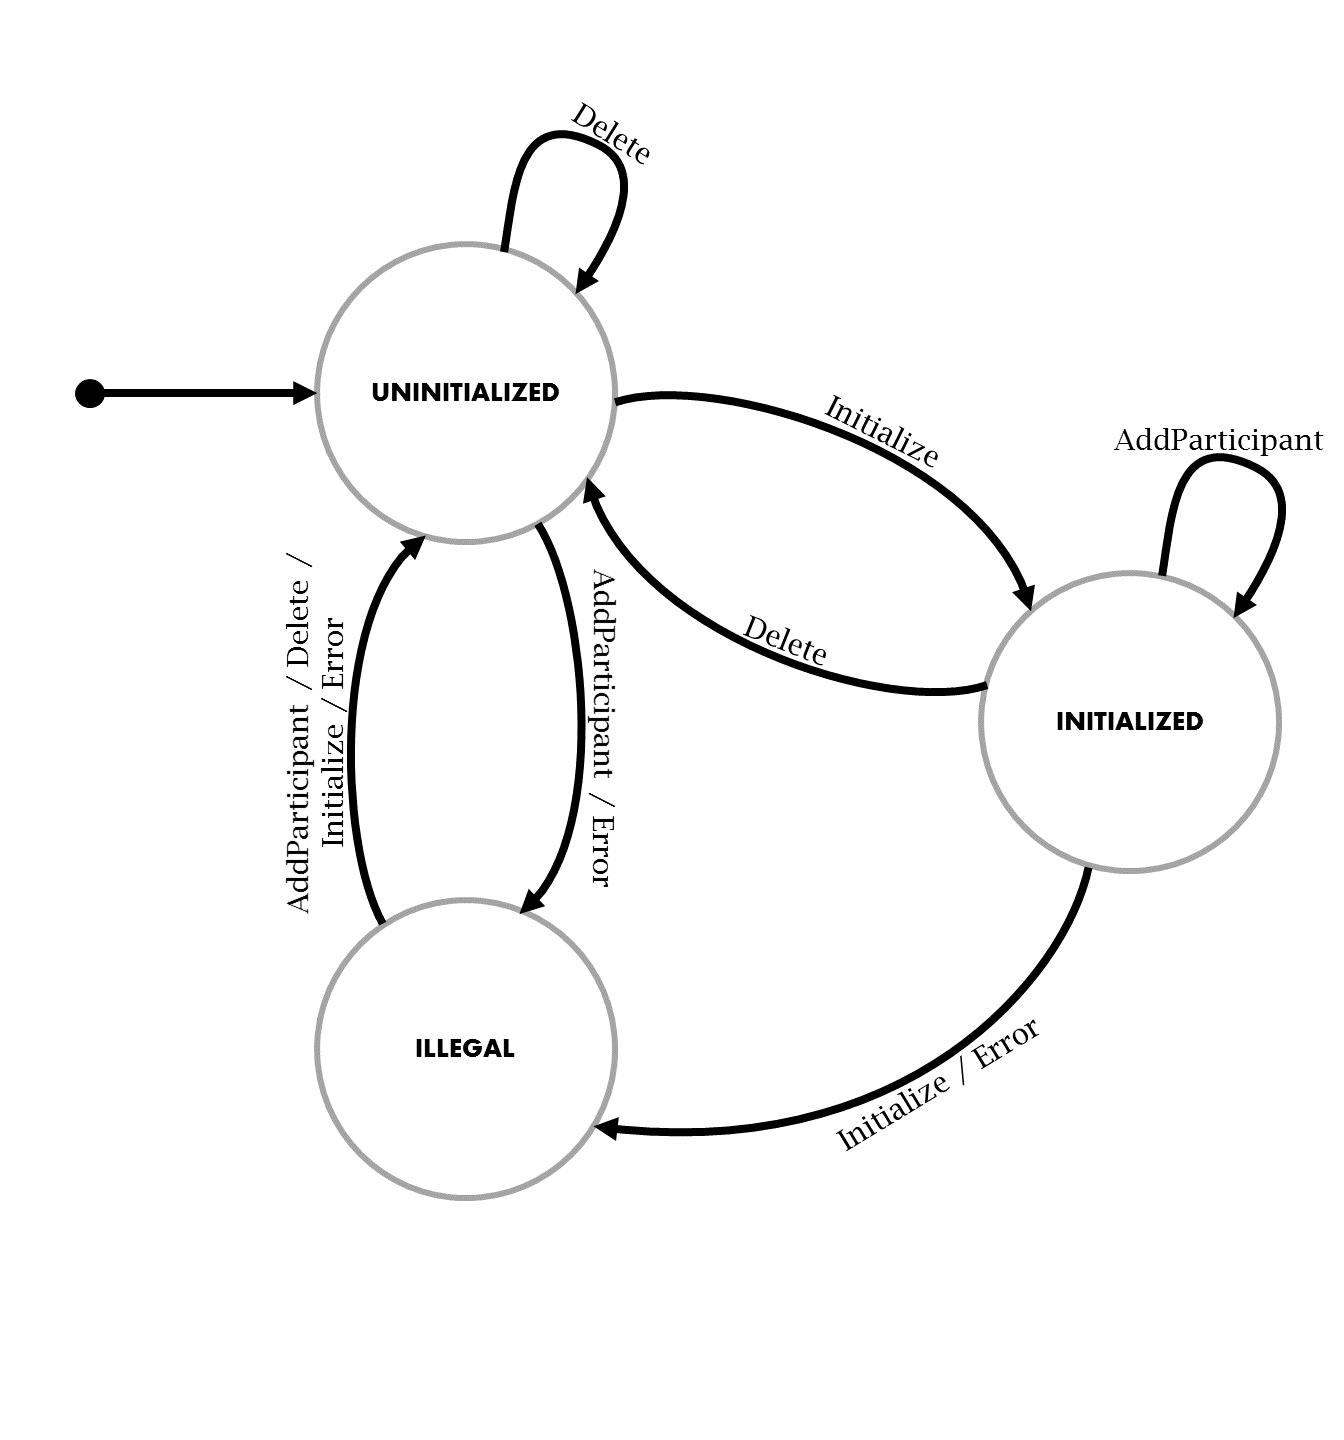
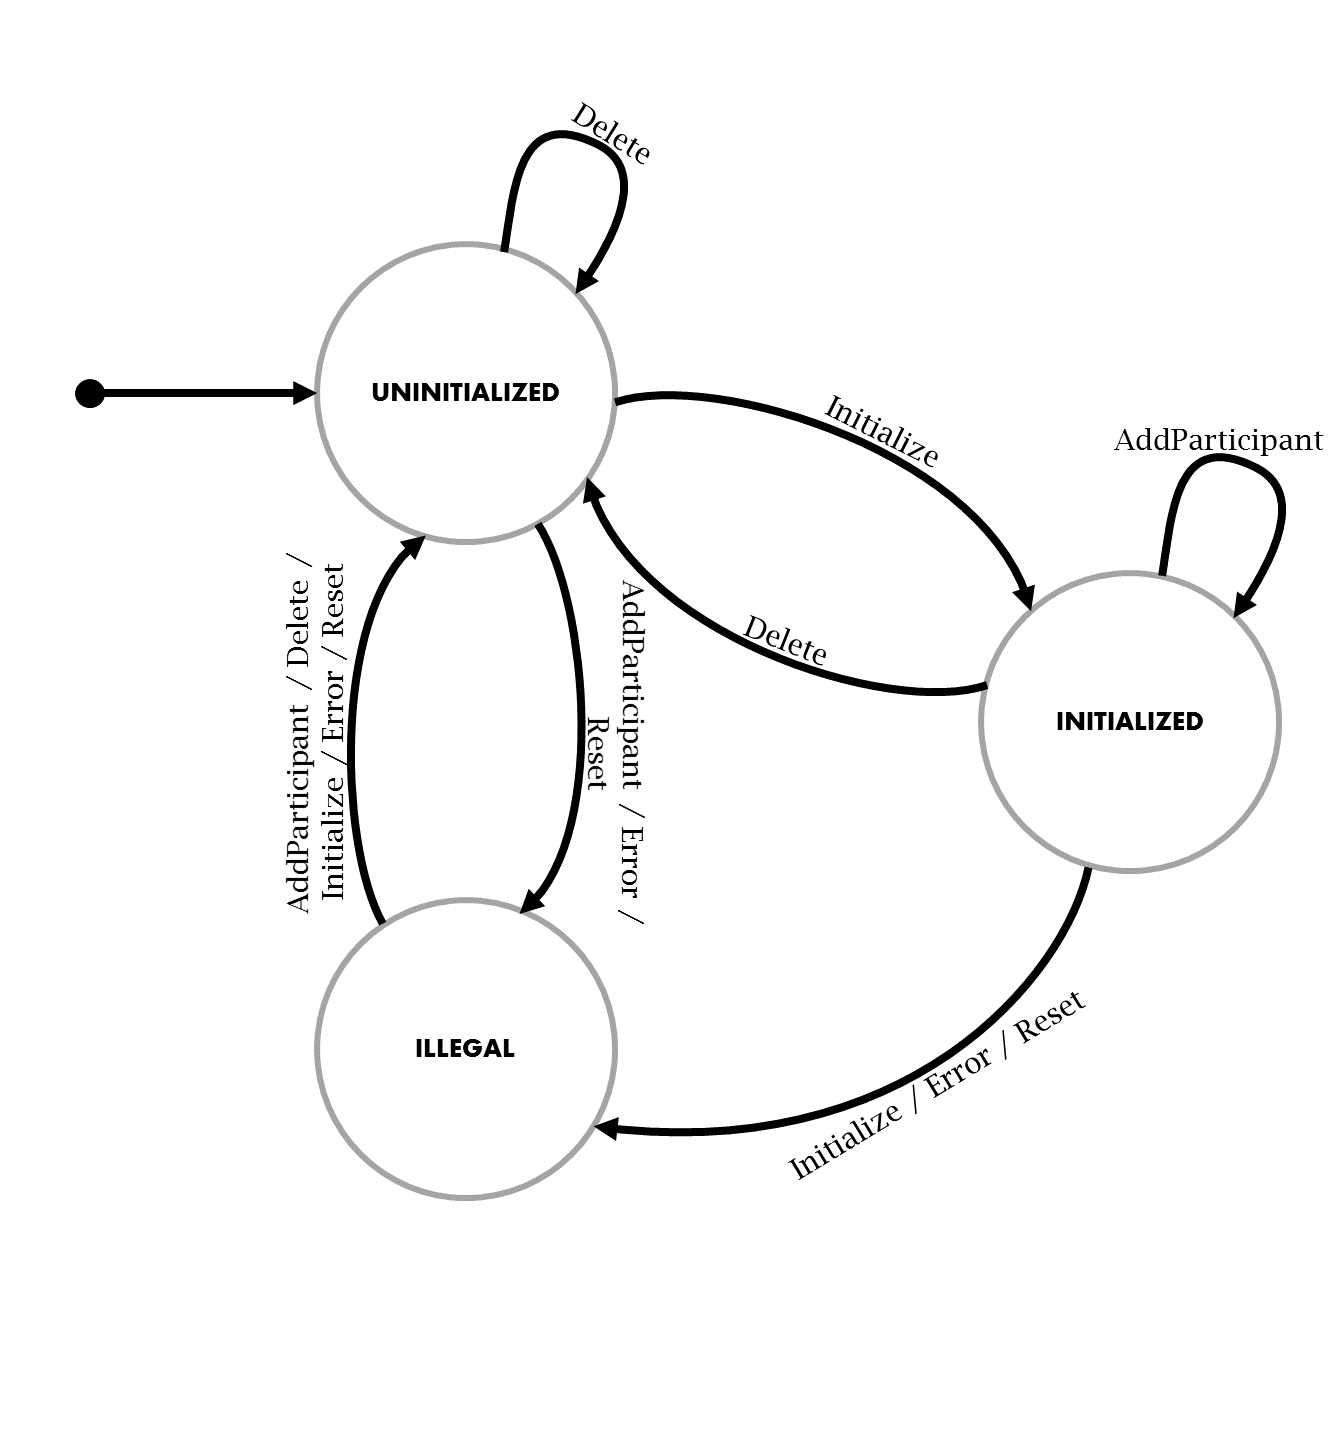
Small fixes. Made some corrections to the existing documentation.

diff --git a/Common/StatechartActor.md b/Common/StatechartActor.md
@@ -1,7 +1,7 @@
 The *Statechart Actor* is a library that define classes that can be used to add statechart capabilities to a actors. It allows any actor that implements it to specify a statechart structure by defining states and transitions. With those in place it can then dispatch events to execute actions and change states.
 
 ### StatechartActor Class
-In order for an actor type to have statechart capabilities it needs to derive from the `StatechartActor` abstract class instead of the typical `Actor` class. Then by defining nested classes it can describe the structure of the statechart. These classes will derive from the `StatechartClass` abstract class and will use the `InitialStateAttribute`, `StateAttribute` and `TransitionAttribute` attributes extensively. During the creation of an actor type object said attributes might be read in order to construct the whole structure, which in turn might be used by multiple actor instances. Therefore, when defining the structure we assume that it's not tied to a specific instance. Instead, a reference to an instance will be passed to the appropriate state or transition when necessary.
+In order for an actor type to have statechart capabilities it needs to derive from the `StatechartActor` abstract class instead of the typical `Actor` class. Then by defining nested classes it can describe the structure of the statechart. These classes will derive from the `StatechartClass` abstract class and will use the `InitialStateAttribute`, `StateAttribute`, `FinalStateAttribute` and `TransitionAttribute` attributes extensively. During the creation of an actor type object said attributes might be read in order to construct the whole structure, which in turn might be used by multiple actor instances. Therefore, when defining the structure we assume that it's not tied to a specific instance. Instead, a reference to an instance will be passed to the appropriate state or transition when necessary.
 
 > *Note*: The statechart structure defined by the actor type will be constructed only once for all the actor instances running on the same application domain.
 
@@ -35,14 +35,17 @@ internal class VendingMachineActor: StatechartActor, IVendingMachineActor {
 > *Note*: If you want to override the `OnActivateAsync` method, then make sure that you call the base implementation as well. Also, any `DispatchEventAsync` calls inside of here need to happen after that call. Otherwise, the statechart will not function correctly.
 
 ### StatechartState Class
-The `StatechartState` abstract class is used to define the states that form part of a statechart structure. The class that derives from this one need to be nested inside the class that derives from the `StatechartActor`, and either the `InitialStateAttribute` or `StateAttribute` attributes need to be used on the class itself. An enum or string identifier must be passed to the attribute; the identifier is used to name the state with an unique name. The class also needs to follow the singleton pattern and create an `Instance` public static property that holds a reference to an instance object of this class.
+The `StatechartState` abstract class is used to define the states that form part of a statechart structure. The class that derives from this one need to be nested inside the class that derives from the `StatechartActor`, and the `InitialStateAttribute`, `StateAttribute` or `FinalStateAttribute` attribute need to be used on the class itself. An enum or string identifier must be passed to the attribute; the identifier is used to name the state with an unique name. The class also needs to follow the singleton pattern and create an `Instance` public static property that holds a reference to an instance object of this class.
 
-> *Note*: The `InitialStateAttribute` attribute must be used only on one of the state classes nested inside the parent statechart class. The rest should use the `StateAttribute`.
+> *Note*: The `InitialStateAttribute` attribute must be used only on one of the state classes nested inside the parent statechart class. The rest should use the `StateAttribute` or `FinalStateAttribute` attributes.
+
+<!-- -->
+> *Note*: After a running statechart reaches a state marked by the `FinalStateAttribute` attribute it no longer consumes events.
 
 <!-- -->
 > *Note*: When implementing the singleton pattern make sure that you call the base constructor as part of your private constructor. Otherwise, the statechart will not function correctly.
 
-The `StatechartState` class implements the `IState` interface which exposes the `Type` property. This property returns the identifier used for the class. The class also exposes the `EntryActionAsync` and `ExitActionAsync` methods which can be overridden. These methods are executed whenever a running statechart enters or exits (respectively) this state after following a transition originating from *another* state or targeting *another* state. The final exposed method is `GetActivatedTransition` which returns the transition method that would be activated for this state if the provided event is dispatched and the running statechart is at this state. This method is mostly used by the `DispatchEventAsync` method of the parent statechart class.
+The `StatechartState` class implements the `IState` interface which exposes the `Type` property. This property returns the identifier used for the class. The class also exposes the `EntryActionAsync` and `ExitActionAsync` methods which can be overridden. These methods are executed whenever a running statechart enters or exits (respectively) this state after following a transition originating from *another* state or targeting *another* state. The method receives a reference to the event that forced the statechart to change state as well as a reference to the actor instance that is running. It is possible for an action to produce events, which would be consumed immediately after the current event is handled completly. To achieve this the action simply needs to create and return said events. The final exposed method is `GetActivatedTransition` which returns the transition method that would be activated for this state if the provided event is dispatched and the running statechart is at this state. This method is mostly used by the `DispatchEventAsync` method of the parent statechart class.
 
 This is an example of how this abstract class would be used.
 ```C#
@@ -67,7 +70,7 @@ The first argument that must be passed to the attribute is the name/category of 
 
 > *Note*: When specifying the transition attributes make sure that no event name is repeated inside the same state. Otherwise, the statechart will not function correctly.
 
-The signature of the method should be `Task<IEnumerable<IEvent>> MethodName(IEvent anEvent, Actor actor)` in order to work properly. The first argument is an `IEvent` object which holds information about the current event. The second argument is a reference to the actor currently running the statechart (because the state class is running as a singleton object it needs to be passed this reference). It is possible for an action to produce events, which would be consumed immediately after the current action. To achieve this the action simply needs to create and return said events.
+The signature of the method should be `Task<IEnumerable<IEvent>> MethodName(IEvent anEvent, Actor actor)` in order to work properly. The first argument is an `IEvent` object which holds information about the current event. The second argument is a reference to the actor currently running the statechart (because the state class is running as a singleton object it needs to be passed this reference). It is possible for an action to produce events, which would be consumed immediately after the current event is handled completly. To achieve this the action simply needs to create and return said events.
 
 This is an example of how this attribute would be used.
 ```C#

diff --git a/ExperimentsFramework/ExperimentManagerActor.md b/ExperimentsFramework/ExperimentManagerActor.md
@@ -12,8 +12,8 @@ What follows are descriptions of the states and the transitions that originate f
 #### Uninitialized State
 This state implies that the experiment manager doesn't have any configuration details stored, either because they've never been set or because they were removed.
 
-##### AddParticipant and Error Events
-An *AddParticipant* event only make sense if the statechart already has the configuration details saved for this instance. Therefore, if this is not true the statechart moves to the *Illegal* state. An *Error* event always make the instance move to the *Illegal* state as it is produced, for the most past, when a problem arises during the processing of an action.
+##### AddParticipant, Error and Reset Events
+An *AddParticipant* event only make sense if the statechart already has the configuration details saved for this instance. Therefore, if this is not true the statechart moves to the *Illegal* state. An *Error* event always make the instance move to the *Illegal* state as it is produced, for the most past, when a problem arises during the processing of an action. The *Reset* event has only meaning when moving out of the *Illegal* state and into the initial state.
 
 ##### Initialize Event
 An *Initialize* event is necessary to move the statechart to the *Initialized* state. This transition executes an action that saves the configuration details tied to the consumed event. If for some reason the data is missing then an *Error* event is consumed right after the transition reaches the new state.
@@ -30,11 +30,11 @@ The purpose of an *AddParticipant* event is to add a new participant to the expe
 ##### Delete Event
 A *Delete* event tells the statechart instance to remove the saved configuration details, forcing it to be at an *Uninitialized* state.
 
-##### Initialize and Error Events
-An *Initialize* event only make sense if the statechart doesn't have any configuration details saved for this instance. Therefore, if it does then the statechart moves to the *Illegal* state. An *Error* event always make the instance move to the *Illegal* state as it is produced, for the most past, when a problem arises during the processing of an action.
+##### Initialize, Error and Reset Events
+An *Initialize* event only make sense if the statechart doesn't have any configuration details saved for this instance. Therefore, if it does then the statechart moves to the *Illegal* state. An *Error* event always make the instance move to the *Illegal* state as it is produced, for the most past, when a problem arises during the processing of an action. The *Reset* event has only meaning when moving out of the *Illegal* state and into the initial state.
 
 #### Illegal State
-This state implies that an error occurred during the processing of a transition action, which might further imply that at some point there was a problem during the path traversal of the instance. In order for the statechart to be "legal" again it would need to transition to the initial state before processing any new event. Thus, for any event dispatched while the instance is on this state it simply forwards it to the initial state.
+This state implies that an error occurred during the processing of a transition action, which might further imply that at some point there was a problem during the path traversal of the instance. In order for the statechart to be "legal" again it would need to transition to the initial state before processing any new event. Thus, for any event dispatched while the instance is on this state it simply moves to the initial state.
 
 ### Actor Language
 The *Experiment Manager* actor type is realized by `ExperimentManagerActor`. The class implements the `IExperimentManagerActor` interface which exposes the `ConfigurateAsync` and `AddParticipantAsync` methods. The first method is used to setup all the details related to the experiment. This creates and dispatches an *Initialize* event on the statechart backbone. The second method is used to add a new participant to an existing, and running, experiment. This creates and dispatches an *AddParticipant* event on the statechart backbone. These methods are mostly used by the API gateway instead of by other actors.

diff --git a/ExperimentsFramework/ModelManagerActor.md b/ExperimentsFramework/ModelManagerActor.md
@@ -18,8 +18,8 @@ An *Initialize* event is necessary to move the statechart to the *Initialized* s
 ##### Delete Event
 A *Delete* event tells the statechart instance to remove the saved references, forcing it to be at an *Uninitialized* state.
 
-##### Error Event
-An *Error* event always make the instance move to the *Illegal* state as it is produced, for the most past, when a problem arises during the processing of an action.
+##### Error and Reset Events
+An *Error* event always make the instance move to the *Illegal* state as it is produced, for the most past, when a problem arises during the processing of an action. The *Reset* event has only meaning when moving out of the *Illegal* state and into the initial state.
 
 #### Initialized State
 This state implies that the model references produced by a previous *Initialize* event were stored, and therefore the instance is now ready to process requests that make use of said information.
@@ -27,11 +27,11 @@ This state implies that the model references produced by a previous *Initialize*
 ##### Delete Event
 A *Delete* event tells the statechart instance to remove the saved model references, forcing it to be at an *Uninitialized* state.
 
-##### Initialize and Error Events
-An *Initialize* event only make sense if the statechart doesn't have any model references saved for this instance. Therefore, if it does then the statechart moves to the *Illegal* state. An *Error* event always make the instance move to the *Illegal* state as it is produced, for the most past, when a problem arises during the processing of an action.
+##### Initialize, Error and Reset Events
+An *Initialize* event only make sense if the statechart doesn't have any model references saved for this instance. Therefore, if it does then the statechart moves to the *Illegal* state. An *Error* event always make the instance move to the *Illegal* state as it is produced, for the most past, when a problem arises during the processing of an action. The *Reset* event has only meaning when moving out of the *Illegal* state and into the initial state.
 
 #### Illegal State
-This state implies that an error occurred during the processing of a transition action, which might further imply that at some point there was a problem during the path traversal of the instance. In order for the statechart to be "legal" again it would need to transition to the initial state before processing any new event. Thus, for any event dispatched while the instance is on this state it simply forwards it to the initial state.
+This state implies that an error occurred during the processing of a transition action, which might further imply that at some point there was a problem during the path traversal of the instance. In order for the statechart to be "legal" again it would need to transition to the initial state before processing any new event. Thus, for any event dispatched while the instance is on this state it simply moves to the initial state.
 
 ### Actor Language
 The *Model Manager* actor type is realized by `ModelManagerActor`. The class implements the `IModelManagerActor` interface which exposes the `ConfigurateAsync` method. This method is used to setup all the details related to the models. This creates and dispatches an *Initialize* event on the statechart backbone. This method is mostly used by the API gateway instead of by other actors.

diff --git a/ExperimentsFramework/Experiments-Framework.md b/ExperimentsFramework/Experiments-Framework.md
@@ -1,7 +1,7 @@
 The Experiments Framework is a framework as a service (FaaS) that uses digital signal processing models on a data object that is periodically producing new signals. These signals are consumed by multiple adaptive filters with potentially different configurations. Each adaptive filter can differ from the others with regards to the employed algorithm or the order of the model. The set of adaptive filters is repeated for each data object since they are exclusive to a data object. Because of that, adaptive filters from data objects that are *similar* might decide to cooperate with each other. During cooperation they share their values for the parameters used on the adaptive algorithm and take into consideration the values from their neighbors. Then the updated parameters are used to make predictions for upcoming signals. These predictions can be used in many ways, of particular interest is for control systems that act upon the data object in order to influence the signals obtained from them.
 
 ## Technologies
-Microsoft's Azure Service Fabric<sup>[1]</sup> is a distributed systems platform that simplifies the process of developing and managing cloud applications. In particular, it takes care of scalability and reliability by providing a runtime of distributed, stateful and stateless microservices that run at high density on a shared pool of machines<sup>[2]</sup>. Service Fabric provides the Reliable Actors application framework, which is based on the Virtual Actor<sup>[3]</sup> pattern. An actor is a computational unit with single threaded execution that manages it's own state. Multiple actors can execute simultaneously and independently of each other, only interacting with each other by sending asynchronous messages<sup>[4]</sup>. In the Reliable Actors application framework the *virtual* actors also have perpetual existence, automatic instantiation and local transparency. These features simplify the application by doing away with most of the grievances that come from managing the actors lyfecycle.
+Microsoft's Azure Service Fabric<sup>[1]</sup> is a distributed systems platform that simplifies the process of developing and managing cloud applications. In particular, it takes care of scalability and reliability by providing a runtime of distributed, stateful and stateless microservices that run at high density on a shared pool of machines<sup>[2]</sup>. Service Fabric provides the Reliable Actors application framework, which is based on the Virtual Actor<sup>[3]</sup> pattern. An actor is a computational unit with single threaded execution that manages it's own state. Multiple actors can execute simultaneously and independently of each other, only interacting with each other by sending asynchronous messages<sup>[4]</sup>. In the Reliable Actors application framework the *virtual* actors also have perpetual existence, automatic instantiation and local transparency. These features simplify the application by doing away with most of the grievances that come from managing the actors' lifecycle.
 
 The main programming language used for Service Fabric is C#, a multi-paradigm language that support object-oriented practices and has automatic garbage collection. Both of these features complement the focus of service fabric by promoting a higher productivity and ensuring program integrity.
 
